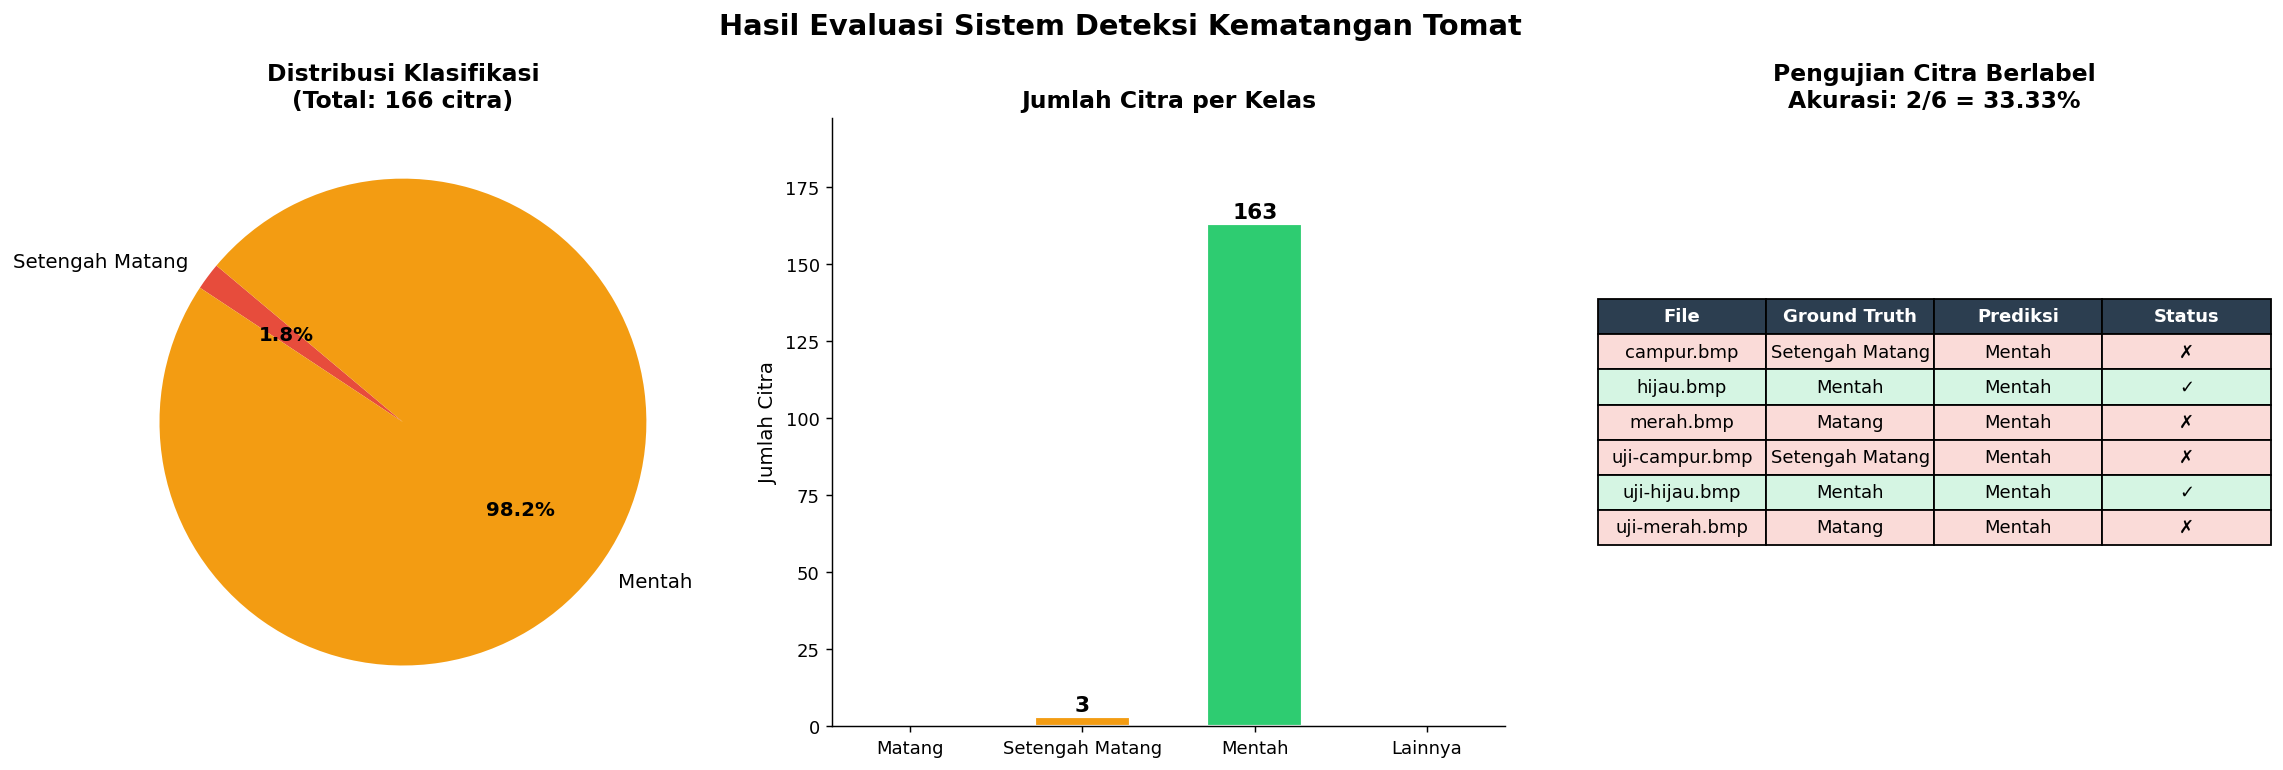
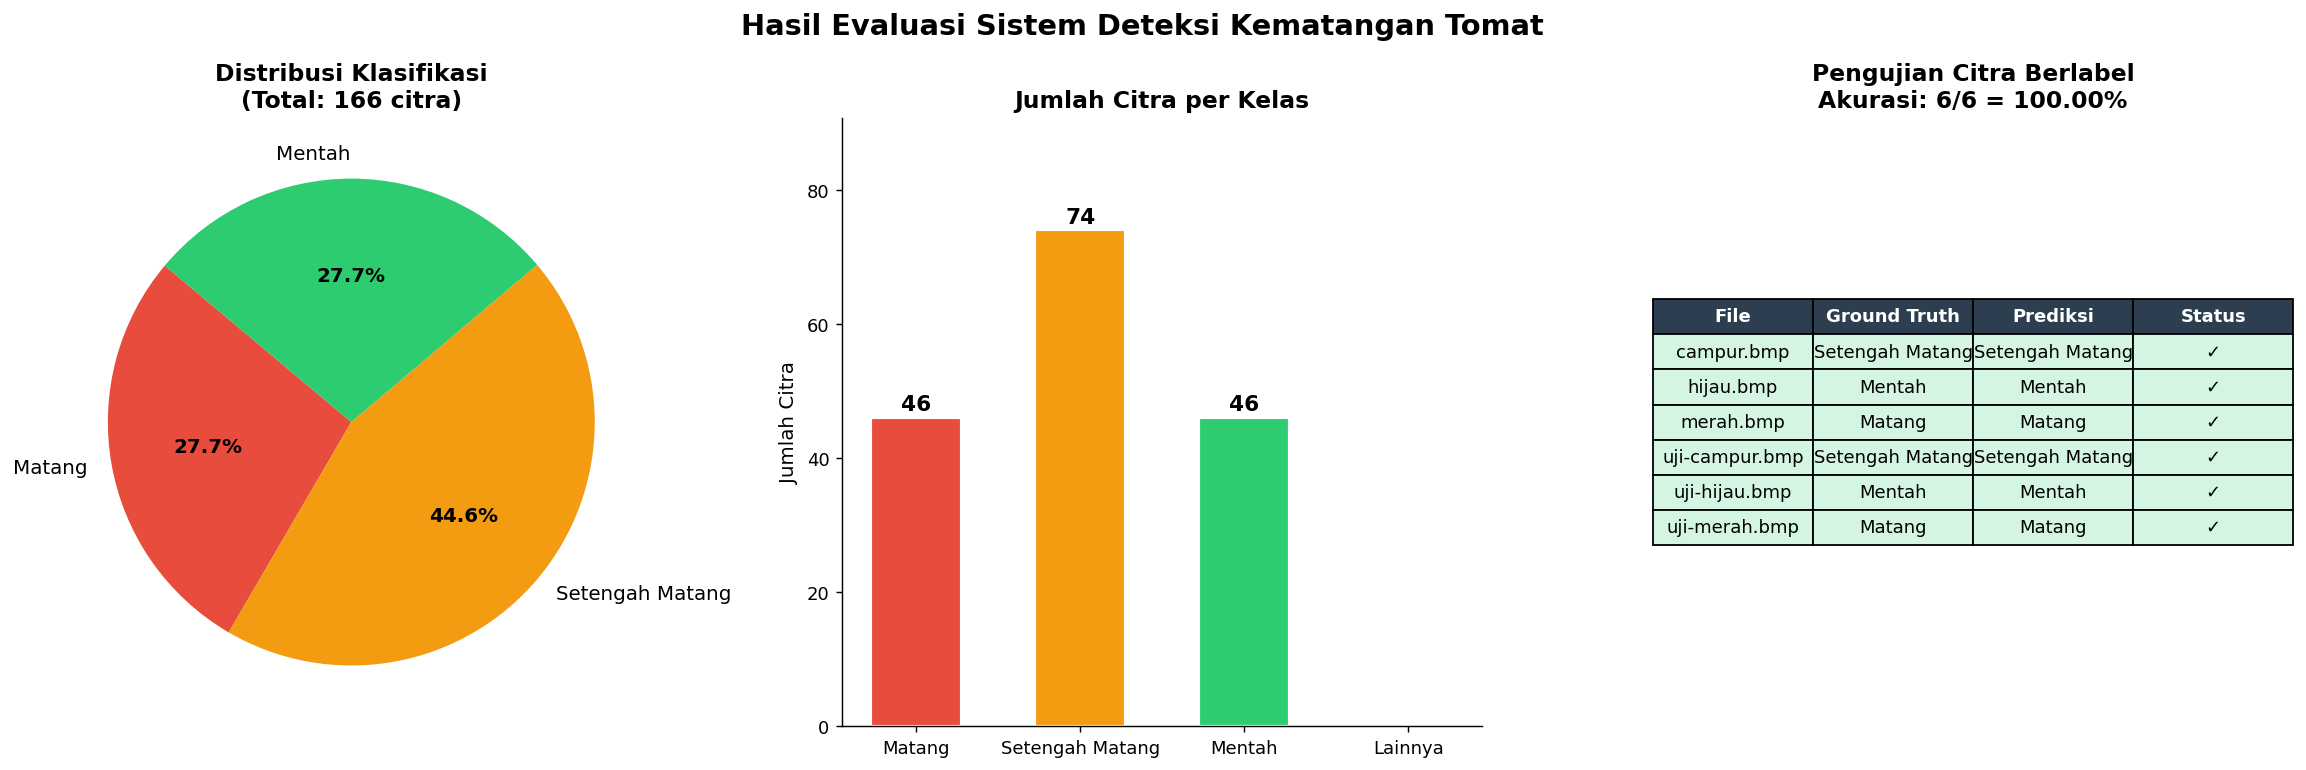
fix: improve tomato segmentation accuracy by adjusting HSV thresholds and implementing contour-based ROI isolation

diff --git a/core/image_processing.py b/core/image_processing.py
@@ -4,8 +4,7 @@ import numpy as np
 
 def process_image(image_path):
     """
-    Melakukan proses deteksi kematangan tomat (versi ringkas untuk evaluator).
-    Mengembalikan (original_img, segmented_img, mask, label_kematangan)
+    Versi ringkas untuk evaluator.py — mengembalikan (orig, segmented, mask, label).
     """
     result = process_image_full(image_path)
     if result["original"] is None:
@@ -15,20 +14,14 @@ def process_image(image_path):
 
 def process_image_full(image_path):
     """
-    Melakukan proses deteksi kematangan tomat secara lengkap.
-    Mengembalikan dict berisi semua tahapan pipeline:
-      - original      : citra asli (BGR)
-      - blurred       : hasil Gaussian Blur (BGR)
-      - hsv_display   : citra HSV yang dikonversi balik ke BGR untuk ditampilkan
-      - mask_red      : binary mask warna merah (grayscale)
-      - mask_green    : binary mask warna hijau (grayscale)
-      - mask_yellow   : binary mask warna kuning (grayscale)
-      - mask_final    : mask setelah operasi morfologi (grayscale)
-      - segmented     : hasil segmentasi (BGR)
-      - label         : label kematangan ('Matang', 'Mentah', 'Setengah Matang', ...)
-      - p_red         : persentase piksel merah (0.0–1.0)
-      - p_green       : persentase piksel hijau (0.0–1.0)
-      - p_yellow      : persentase piksel kuning (0.0–1.0)
+    Pipeline lengkap deteksi kematangan tomat.
+    Mengembalikan dict berisi semua tahapan dan metadata klasifikasi.
+
+    Kunci:
+      original, blurred, hsv_display,
+      mask_red, mask_green, mask_yellow,
+      mask_final, segmented,
+      label, p_red, p_green, p_yellow
     """
     EMPTY = {
         "original": None, "blurred": None, "hsv_display": None,
@@ -38,74 +31,108 @@ def process_image_full(image_path):
         "p_red": 0.0, "p_green": 0.0, "p_yellow": 0.0,
     }
 
-    # ── 1. Preprocessing ──────────────────────────────────────────────────────
+    # ── 1. PREPROCESSING ─────────────────────────────────────────────────────
     img = cv2.imread(image_path)
     if img is None:
         return EMPTY
 
-    # Resize ke ukuran seragam
     img = cv2.resize(img, (400, 400))
 
     # Gaussian Blur untuk meredam noise
     blurred = cv2.GaussianBlur(img, (5, 5), 0)
 
-    # Konversi BGR → HSV
+    # BGR → HSV
     hsv = cv2.cvtColor(blurred, cv2.COLOR_BGR2HSV)
 
-    # HSV → BGR untuk keperluan tampilan (agar warna tampak jelas)
+    # HSV → BGR untuk keperluan tampilan GUI
     hsv_display = cv2.cvtColor(hsv, cv2.COLOR_HSV2BGR)
 
-    # ── 2. Segmentasi ─────────────────────────────────────────────────────────
-    # Mask merah (Matang): dua rentang karena merah berada di kedua ujung Hue
-    mask_r1 = cv2.inRange(hsv, np.array([0,  50, 50]), np.array([10,  255, 255]))
-    mask_r2 = cv2.inRange(hsv, np.array([170, 50, 50]), np.array([180, 255, 255]))
+    # ── 2. SEGMENTASI ────────────────────────────────────────────────────────
+    # PERBAIKAN: Threshold Saturasi (S) dinaikkan ke ≥ 100
+    # untuk mengecualikan background yang memiliki S rendah (S ≈ 43).
+    # Tomat selalu memiliki S ≥ 150, sehingga threshold S=100 aman.
+
+    # Mask Merah — Matang (dua rentang karena merah berada di kedua ujung Hue)
+    mask_r1 = cv2.inRange(hsv, np.array([0,   100, 50]),  np.array([12,  255, 255]))
+    mask_r2 = cv2.inRange(hsv, np.array([158, 100, 50]),  np.array([180, 255, 255]))
     mask_red = cv2.add(mask_r1, mask_r2)
 
-    # Mask hijau (Mentah)
-    mask_green = cv2.inRange(hsv, np.array([35, 40, 40]), np.array([85, 255, 255]))
+    # Mask Hijau — Mentah (S ≥ 100 mengeliminasi background cyan/teal S≈43)
+    mask_green = cv2.inRange(hsv, np.array([38, 100, 50]), np.array([82, 255, 255]))
 
-    # Mask kuning/oranye (Setengah Matang)
-    mask_yellow = cv2.inRange(hsv, np.array([11, 50, 50]), np.array([34, 255, 255]))
+    # Mask Kuning/Oranye — Setengah Matang
+    mask_yellow = cv2.inRange(hsv, np.array([13, 100, 80]), np.array([37, 255, 255]))
 
-    # Gabungkan semua mask
+    # Gabungkan semua mask warna tomat
     mask_all = cv2.add(cv2.add(mask_red, mask_green), mask_yellow)
 
     # Operasi Morfologi: Closing lalu Opening untuk membersihkan mask
-    kernel = np.ones((5, 5), np.uint8)
+    kernel = np.ones((7, 7), np.uint8)
     mask_closed = cv2.morphologyEx(mask_all, cv2.MORPH_CLOSE, kernel)
     mask_final  = cv2.morphologyEx(mask_closed, cv2.MORPH_OPEN, kernel)
 
-    # Aplikasikan mask ke citra asli → hasil segmentasi
+    # ── 3. ISOLASI KONTUR TERBESAR (ROI Tomat) ───────────────────────────────
+    # Hanya hitung proporsi warna di dalam area objek terbesar (tomat)
+    # agar noise dan sisa background tidak mempengaruhi klasifikasi.
+    contours, _ = cv2.findContours(
+        mask_final.copy(), cv2.RETR_EXTERNAL, cv2.CHAIN_APPROX_SIMPLE
+    )
+
+    if contours:
+        largest = max(contours, key=cv2.contourArea)
+        area = cv2.contourArea(largest)
+
+        if area > 800:          # minimal 800 piksel agar tidak salah objek
+            roi_mask = np.zeros_like(mask_final)
+            cv2.drawContours(roi_mask, [largest], -1, 255, thickness=cv2.FILLED)
+
+            # Hitung piksel masing-masing warna di dalam ROI saja
+            red_px    = cv2.countNonZero(cv2.bitwise_and(mask_red,    mask_red,    mask=roi_mask))
+            green_px  = cv2.countNonZero(cv2.bitwise_and(mask_green,  mask_green,  mask=roi_mask))
+            yellow_px = cv2.countNonZero(cv2.bitwise_and(mask_yellow, mask_yellow, mask=roi_mask))
+        else:
+            red_px = green_px = yellow_px = 0
+    else:
+        red_px = green_px = yellow_px = 0
+
+    # Fallback: jika tidak ada kontur valid, hitung dari seluruh mask
+    if red_px + green_px + yellow_px == 0:
+        red_px    = cv2.countNonZero(mask_red)
+        green_px  = cv2.countNonZero(mask_green)
+        yellow_px = cv2.countNonZero(mask_yellow)
+
+    # Segmentasi visual (apply mask ke citra asli)
     segmented = cv2.bitwise_and(img, img, mask=mask_final)
 
-    # ── 3. Klasifikasi ────────────────────────────────────────────────────────
-    red_px    = cv2.countNonZero(mask_red)
-    green_px  = cv2.countNonZero(mask_green)
-    yellow_px = cv2.countNonZero(mask_yellow)
-    total     = red_px + green_px + yellow_px
+    # ── 4. KLASIFIKASI ────────────────────────────────────────────────────────
+    total = red_px + green_px + yellow_px
 
     if total == 0:
-        label  = "Bukan Tomat / Gagal Deteksi"
-        p_red = p_green = p_yellow = 0.0
-    else:
-        p_red    = red_px    / total
-        p_green  = green_px  / total
-        p_yellow = yellow_px / total
+        return {**EMPTY,
+                "original": img, "blurred": blurred, "hsv_display": hsv_display,
+                "mask_red": mask_red, "mask_green": mask_green,
+                "mask_yellow": mask_yellow, "mask_final": mask_final,
+                "segmented": segmented,
+                "label": "Bukan Tomat / Gagal Deteksi"}
 
-        if p_red > 0.5:
+    p_red    = red_px    / total
+    p_green  = green_px  / total
+    p_yellow = yellow_px / total
+
+    if p_red > 0.5:
+        label = "Matang"
+    elif p_green > 0.5:
+        label = "Mentah"
+    elif p_yellow > 0.5:
+        label = "Setengah Matang"
+    else:
+        max_p = max(p_red, p_green, p_yellow)
+        if max_p == p_red:
             label = "Matang"
-        elif p_green > 0.5:
+        elif max_p == p_green:
             label = "Mentah"
-        elif p_yellow > 0.5:
-            label = "Setengah Matang"
         else:
-            max_p = max(p_red, p_green, p_yellow)
-            if max_p == p_red:
-                label = "Matang"
-            elif max_p == p_green:
-                label = "Mentah"
-            else:
-                label = "Setengah Matang"
+            label = "Setengah Matang"
 
     return {
         "original":    img,